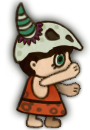
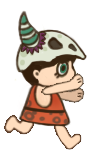
py

diff --git a/main.py b/main.py
@@ -4,6 +4,7 @@ from vector import Vec2
 from button import Button
 from button import RectShape
 import spritesheet
+import player
 from spritesheet import SpriteStripAnim
 from pygame.locals import *
 from pygame.compat import geterror
@@ -22,8 +23,10 @@ def main():
     white = pygame.Color(255,255,255)
     black = pygame.Color(0,0,0)
 
-  
-
+    player1 = pygame.image.load("images/player1.png")
+    player2 = pygame.image.load("images/player2.png")
+    player3 = pygame.image.load("images/player3.png")
+    player4 = pygame.image.load("images/player4.png")
     clock = pygame.time.Clock()
 
     running = True
@@ -31,10 +34,13 @@ def main():
 
     font = pygame.font.Font(None, 18)
     largeFont = pygame.font.Font(None, 30)
-    
+    timer = 0
+    rotateTimer = 0
+    playerx = 300
+    addx = 1
     
     while running:
-        
+        screen.blit(sky, (0,0))
          
         if state == 0:
             screen.blit(pygame.image.load("images/start.png"),(0,0))
@@ -61,11 +67,62 @@ def main():
                         running = False                              
         
         elif state == 1:
-            #playersheet = pygame.image.load("images/start.png")
-            screen.blit(sky, (0,0))
-            screen.blit(background, (0,0))
-           
+            #rolling background
+            screen.blit(background,(rotateTimer,0))
+            screen.blit(background,(rotateTimer+700,0))
+            rotateTimer -= 1
+            if rotateTimer == -700:
+                rotateTimer = 0
+
+            """if timer%4 == 0:
+                screen.blit(player1, (playerx,271))
+            elif timer%4 == 1:
+                screen.blit(player1, (playerx,271))
+            elif timer%4 == 2:
+                screen.blit(player2, (playerx,271))
+            elif timer%4 == 3:
+                screen.blit(player2, (playerx,271))
+            """            
+            #player animation        
+            if timer%15 == 0:
+                screen.blit(player1, (playerx,271))
+            elif timer%15 == 1:
+                screen.blit(player1, (playerx,271))
+            elif timer%15 == 2:
+                screen.blit(player2, (playerx,271))
+            elif timer%15 == 3:
+                screen.blit(player2, (playerx,271))
+            elif timer%15 == 4:
+                screen.blit(player3, (playerx,271))
+            elif timer%15 == 5:
+                screen.blit(player3, (playerx,271))
+            elif timer%15 == 6:
+                screen.blit(player3, (playerx,271))
+            elif timer%15 == 7:
+                screen.blit(player4, (playerx,271))
+            elif timer%15 == 8:
+                screen.blit(player4, (playerx,271))
+            elif timer%15 == 9:
+                screen.blit(player4, (playerx,271))
+            elif timer%15 == 10:
+                screen.blit(player3, (playerx,271))
+            elif timer%15 == 11:
+                screen.blit(player3, (playerx,271))
+            elif timer%15 == 12:
+                screen.blit(player2, (playerx,271))
+            elif timer%15 == 13:
+                screen.blit(player2, (playerx,271))
+            elif timer%15 == 14:
+                screen.blit(player1, (playerx,271))
+            #moving player back and forth
+            if playerx == 280:
+                addx = 1
+            if playerx == 320:
+                addx = -1
             
+            playerx += addx
+            timer += 1 
+    
             for event in pygame.event.get():
                     if event.type == QUIT:
                         running = False
@@ -73,9 +130,7 @@ def main():
                         state = 3
                     elif event.type == MOUSEMOTION:
                         mousex, mousey = event.pos
-                        print (mousex,mousey)
-
-            print (mousex,mousey)
+             
                         
         elif state == 2:
             pygame.draw.rect(screen,black, (0,0,700,450))
